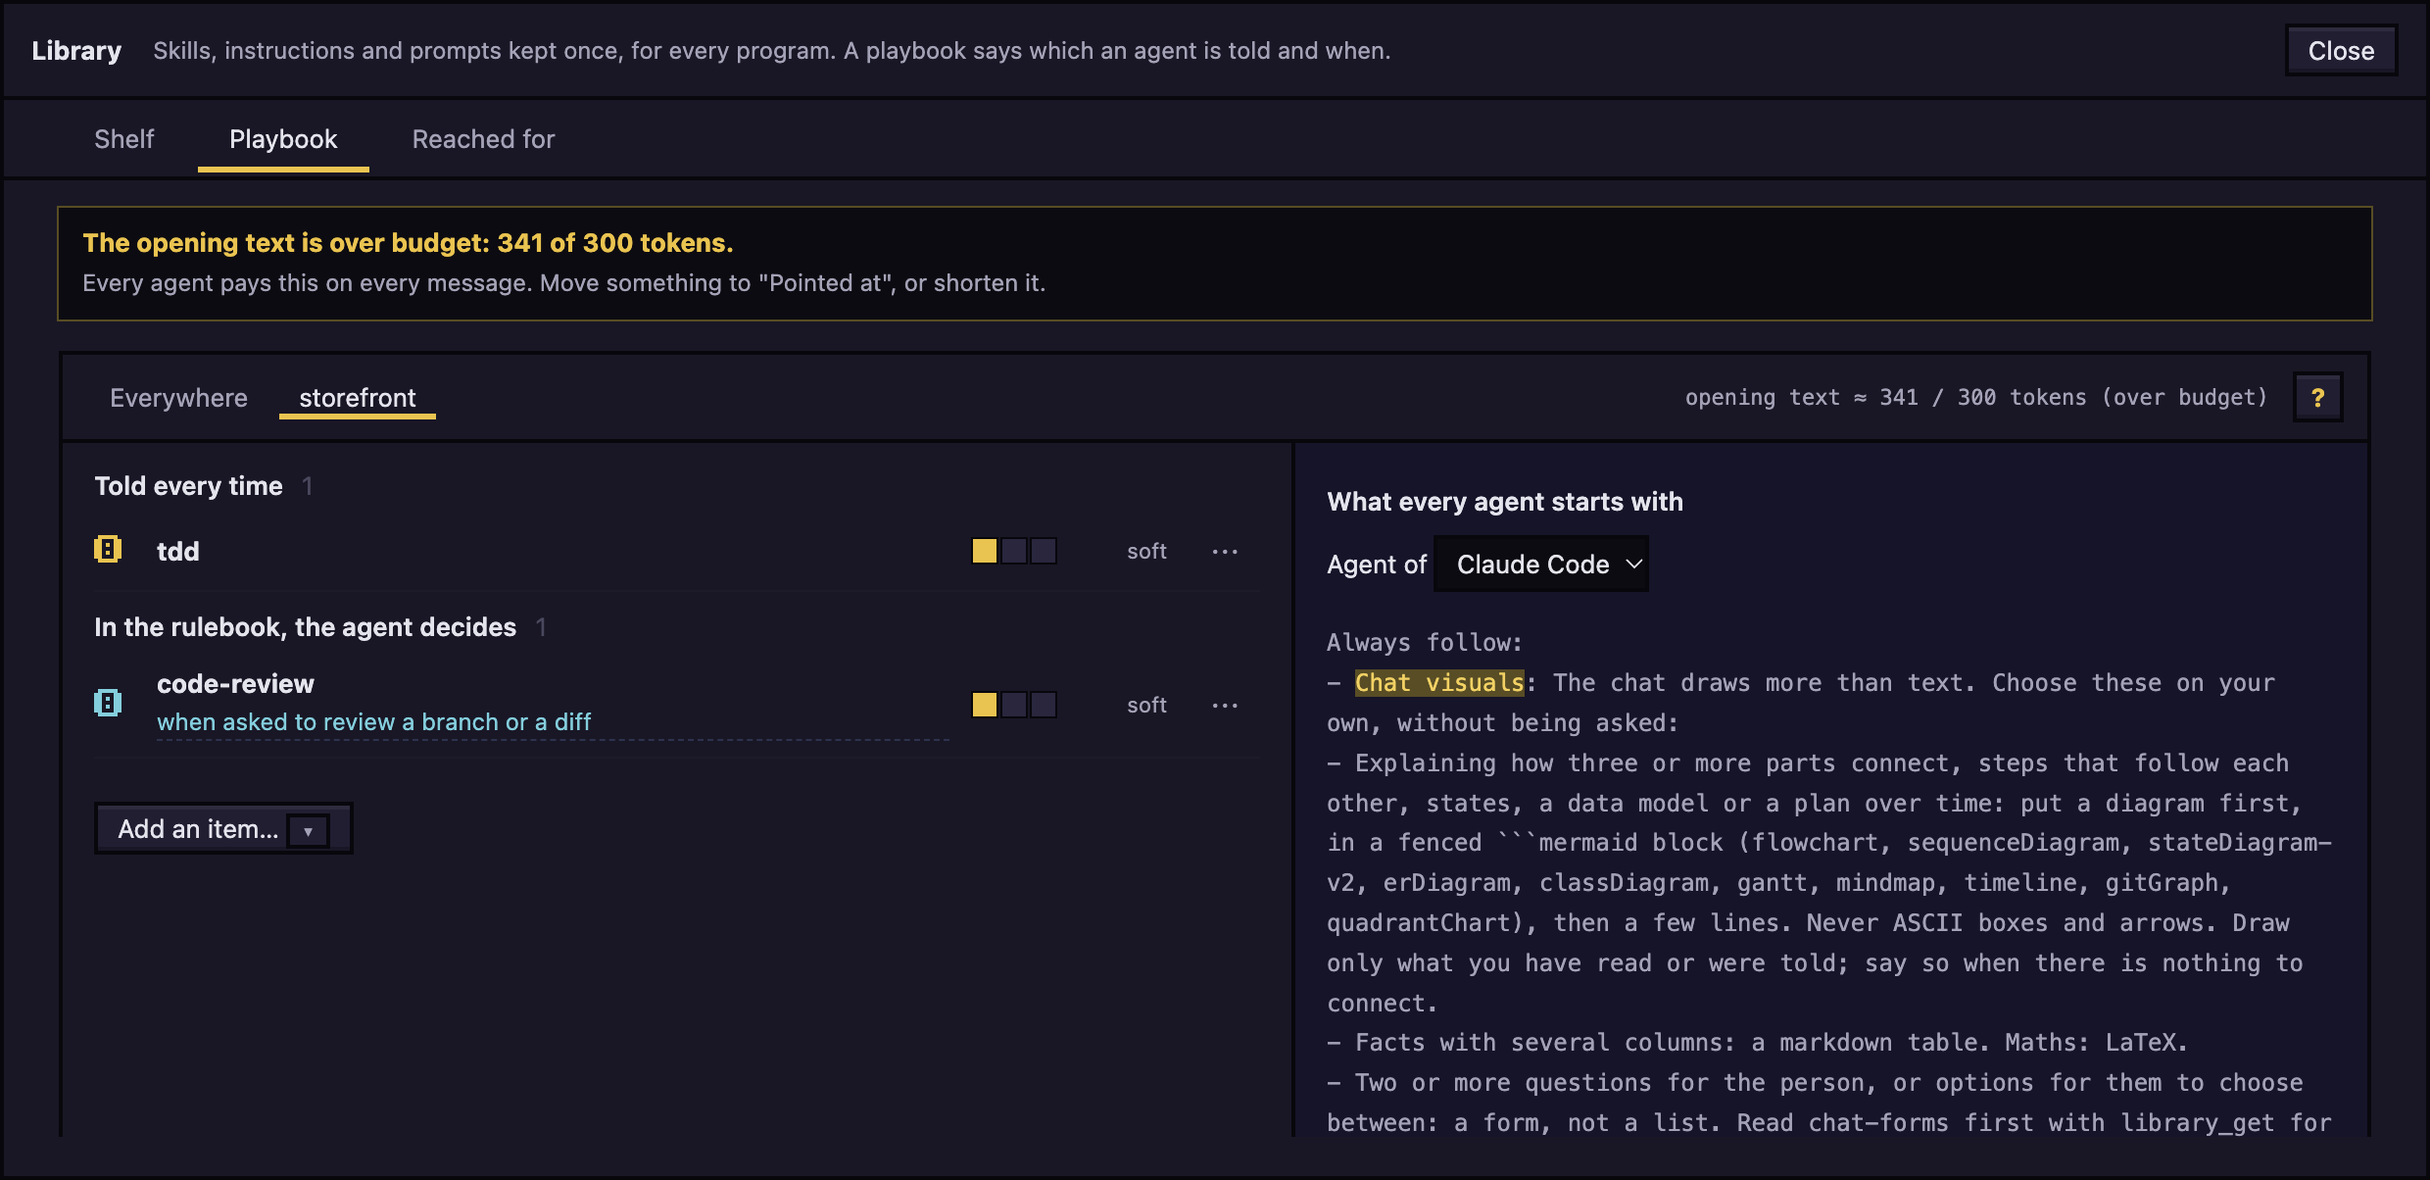
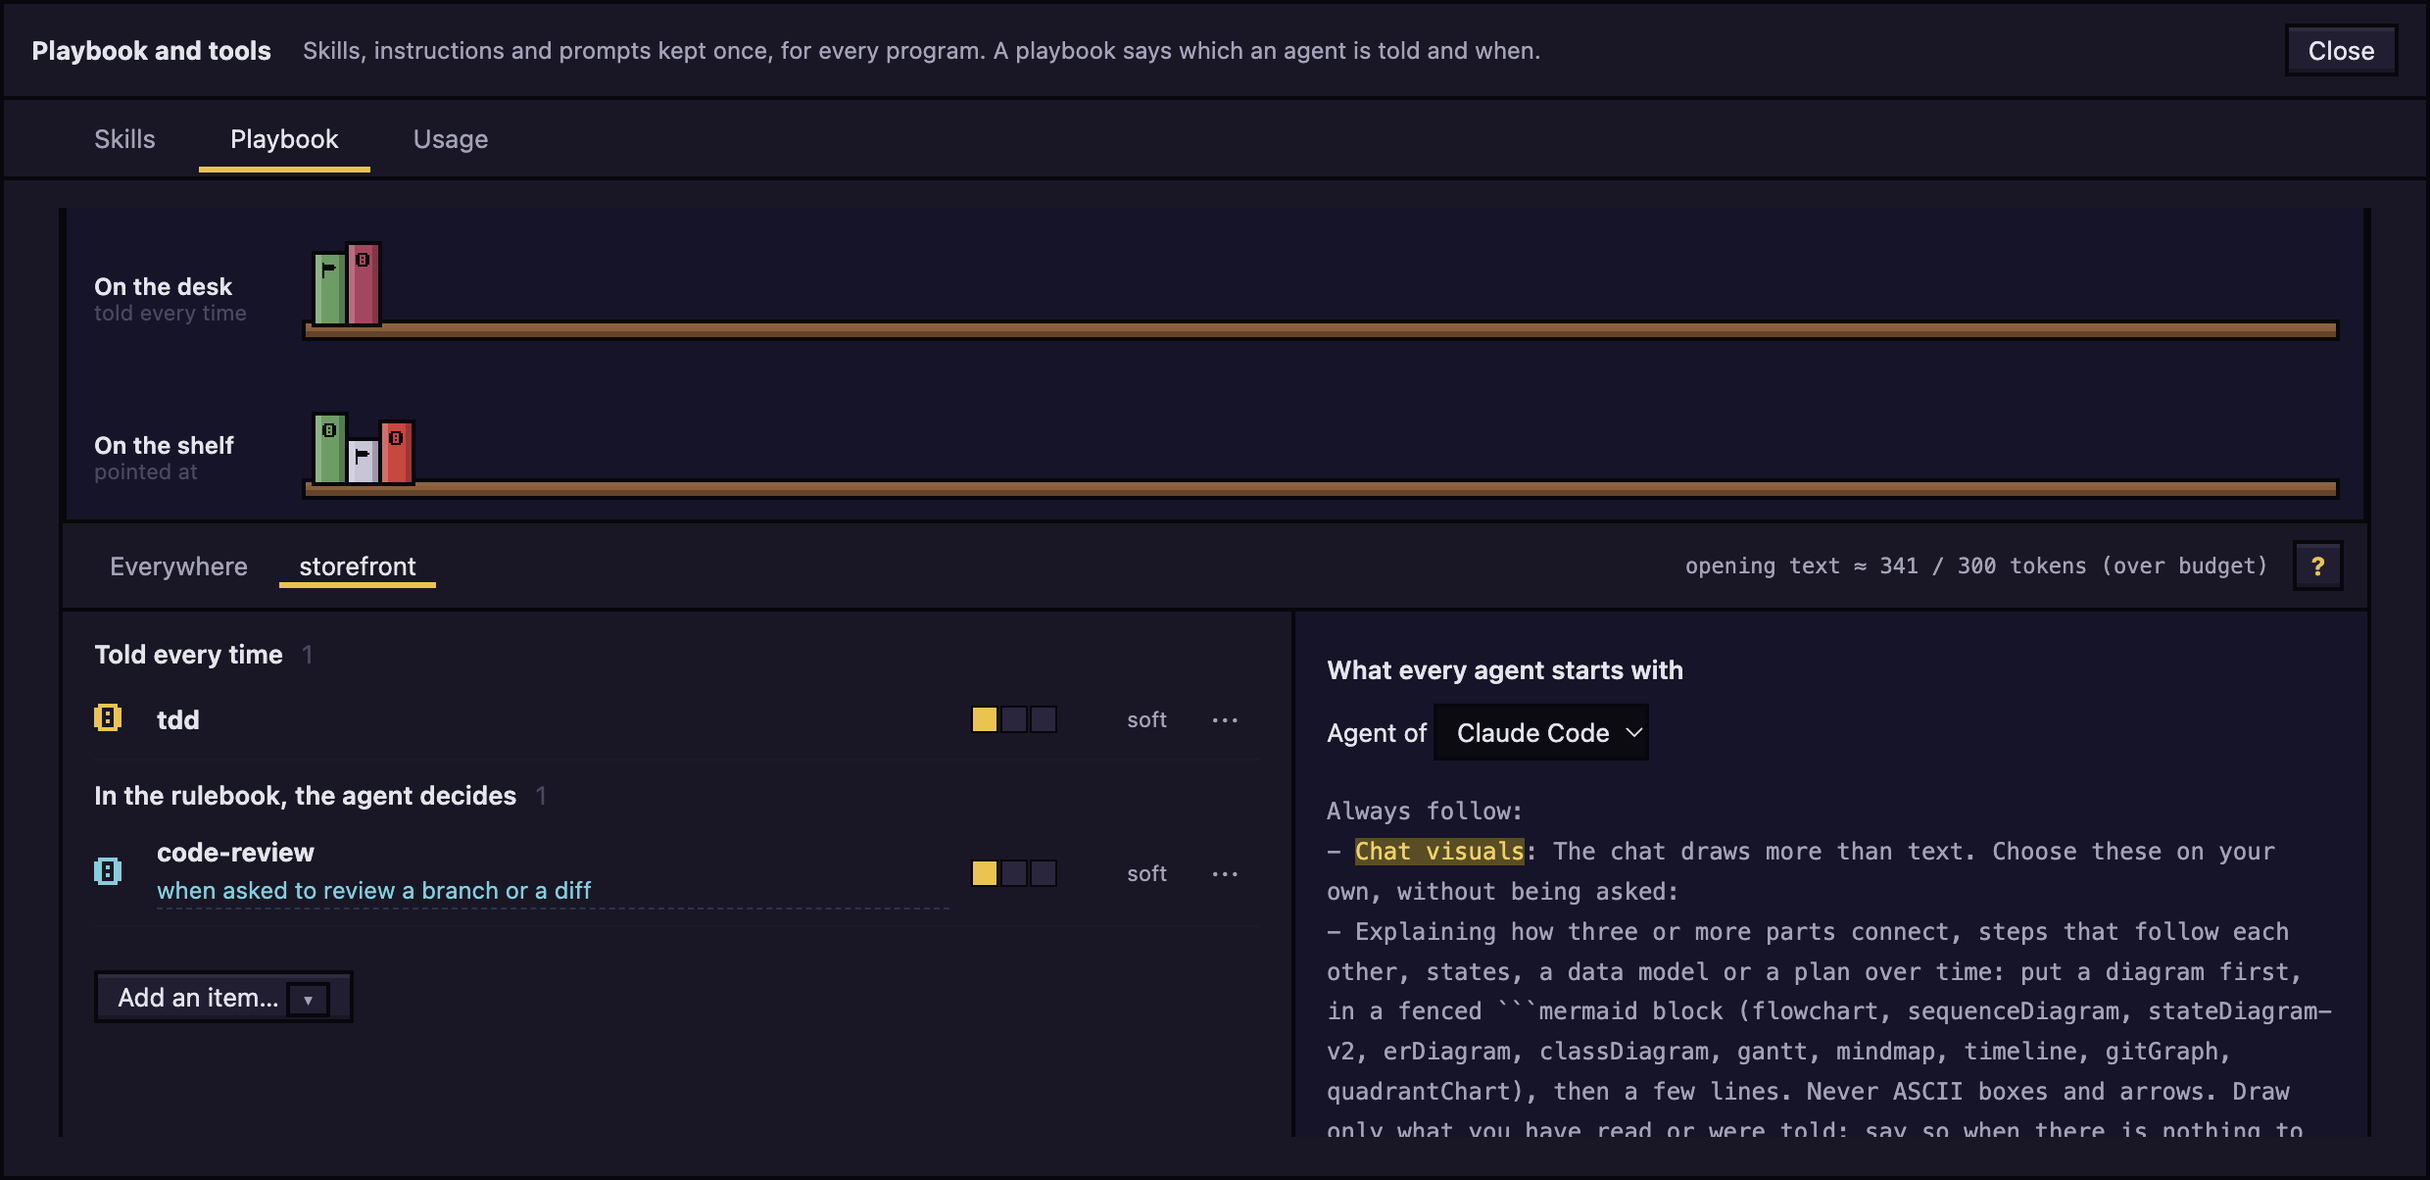
feat(library): shelf books open their item, arrow keys move between an item's tabs, and file badge colours are named

diff --git a/src/renderer/styles.css b/src/renderer/styles.css
@@ -37,6 +37,11 @@
   --thumb: #3a4268; /* a scrollbar thumb */
   --frame: #2a2840; /* the bezel of a device preview */
   --hint: #6f6d86; /* a placeholder and a timestamp */
+  --file-md: #7cc4d8; /* a skill's file badges, by type: text, shell, python, script */
+  --file-sh: #e2c35b;
+  --file-py: #8fd18b;
+  --file-js: #f0a868;
+  --spine-shine: rgb(255 255 255 / 0.35); /* the band of light across a book's spine */
   --violet-1: #5a4a8e; /* a day with one use, under the violet of two or more */
   --violet-2: #8a6fd8;
   font-family: ui-sans-serif, system-ui, -apple-system, 'Segoe UI', sans-serif;
@@ -2637,6 +2642,7 @@ aside:not(.drawer) { flex: none; }
 .lip-more span { background: var(--panel-2); box-shadow: 0 0 0 1px var(--line); padding: 1px 10px; }
 .lip-foot { padding: 5px 12px; border-top: 1px solid var(--line); background: var(--panel-2); font-size: 11px; color: var(--dim); flex: none; }
 .lip-panel { padding: 14px 16px; overflow: auto; flex: 1; min-height: 0; }
+.lip-tp { display: flex; flex-direction: column; flex: 1; min-height: 0; }
 .lip-files { margin: 0; padding: 0; list-style: none; font: 12px/1.9 Menlo, Consolas, monospace; }
 .lip-facts { margin: 0; display: flex; flex-direction: column; gap: 10px; }
 .lip-facts div { display: grid; grid-template-columns: 70px minmax(0, 1fr); gap: 10px; }
@@ -4739,7 +4745,7 @@ main.term-side .stage-wrap.off { z-index: auto; }
 .skl-row:hover:not(:disabled) { background: var(--panel-2); }
 .skl-row.sel { background: var(--selected); box-shadow: inset 0 0 0 2px var(--accent-dim); }
 .skl-spine { width: 14px; height: 34px; border: 2px solid var(--ink); position: relative; display: grid; place-items: end center; padding-bottom: 2px; color: var(--ink); }
-.skl-spine::before { content: ''; position: absolute; left: 1px; right: 1px; top: 5px; height: 3px; background: rgb(255 255 255 / 0.35); }
+.skl-spine::before { content: ''; position: absolute; left: 1px; right: 1px; top: 5px; height: 3px; background: var(--spine-shine); }
 .skl-main { min-width: 0; display: flex; flex-direction: column; gap: 4px; }
 .skl-main > b { font-size: 13px; font-weight: 600; overflow: hidden; text-overflow: ellipsis; white-space: nowrap; }
 .skl-meta { display: flex; align-items: center; gap: 8px; min-width: 0; }
@@ -4803,7 +4809,8 @@ main.term-side .stage-wrap.off { z-index: auto; }
 .skw-sock.copy .skw-jack i { background: var(--accent); }
 .skw-t { min-width: 0; display: flex; flex-direction: column; gap: 2px; }
 .skw-t b { font-size: 12.5px; }
-.skw-t small { color: var(--muted); font-size: 11px; overflow: hidden; text-overflow: ellipsis; white-space: nowrap; }
+/* Up to two lines, so a reason is read whole; the full path is on hover. */
+.skw-t small { color: var(--muted); font-size: 11px; overflow: hidden; display: -webkit-box; -webkit-line-clamp: 2; -webkit-box-orient: vertical; overflow-wrap: anywhere; }
 .skw-st { font: 700 10px Menlo, Consolas, monospace; letter-spacing: .08em; text-transform: uppercase; color: var(--muted); }
 .skw-sock.on .skw-st { color: var(--ok-text); } .skw-sock.copy .skw-st { color: var(--accent); } .skw-sock.none .skw-st { color: var(--hint); }
 .skw-note { margin: 4px 0 0; font-size: 11.5px; }
@@ -4847,7 +4854,7 @@ main.term-side .stage-wrap.off { z-index: auto; }
 .lif-list li { display: flex; align-items: center; gap: 10px; padding: 5px 6px; border-bottom: 1px solid var(--line-soft); }
 .lif-list li:hover { background: var(--panel-3); }
 .lif-ic { flex: none; width: 26px; height: 16px; display: grid; place-items: center; font: 700 9px Menlo, Consolas, monospace; color: var(--ink); background: var(--violet); }
-.lif-md { background: #7cc4d8; } .lif-sh { background: #e2c35b; } .lif-py { background: #8fd18b; } .lif-js, .lif-ts, .lif-mjs { background: #f0a868; }
+.lif-md { background: var(--file-md); } .lif-sh { background: var(--file-sh); } .lif-py { background: var(--file-py); } .lif-js, .lif-ts, .lif-mjs { background: var(--file-js); }
 .lif-n { flex: 1; min-width: 0; overflow: hidden; text-overflow: ellipsis; white-space: nowrap; font: 12px Menlo, Consolas, monospace; }
 .lif-list small { flex: none; color: var(--dim); font: 11px Menlo, Consolas, monospace; }
 .lif-list button, .lif-kept button { flex: none; padding: 2px 10px; font-size: 12px; }

diff --git a/src/renderer/panel/LibraryItemPane.tsx b/src/renderer/panel/LibraryItemPane.tsx
@@ -31,6 +31,18 @@ export function LibraryItemPane({ item, usage, where, stats, colour, onEdit, onR
     return () => ro?.disconnect()
   }, [tab, item.id, item.body])
   const TABS: [Tab, string][] = [...(where ? ([['where', 'Where it works']] as [Tab, string][]) : []), ['text', 'What an agent reads'], ['files', `Files${item.files.length ? ` (${item.files.length})` : ''}`], ['used', 'Used by']]
+  const tid = (id: Tab) => `lip-tab-${id}`
+  const pid = (id: Tab) => `lip-panel-${id}`
+  // The tabs as one stop in the Tab order: the arrow keys, Home and End move between them, and the tab moved to is picked.
+  const keys = (e: React.KeyboardEvent) => {
+    const at = TABS.findIndex(([id]) => id === tab)
+    const to = e.key === 'ArrowRight' ? (at + 1) % TABS.length : e.key === 'ArrowLeft' ? (at - 1 + TABS.length) % TABS.length : e.key === 'Home' ? 0 : e.key === 'End' ? TABS.length - 1 : -1
+    if (to < 0) return
+    e.preventDefault()
+    const id = TABS[to]![0]
+    setTab(id)
+    e.currentTarget.querySelectorAll<HTMLButtonElement>('[role="tab"]')[to]?.focus()
+  }
   return (
     <div className="lip" role="group" aria-label={`${item.name} in detail`}>
       <div className="lip-top">
@@ -38,12 +50,12 @@ export function LibraryItemPane({ item, usage, where, stats, colour, onEdit, onR
         <p className="lip-desc">{item.description}</p>
         {stats}
       </div>
-      <div className="lip-tabs" role="tablist" aria-label={`About ${item.name}`}>
-        {TABS.map(([id, label]) => <button key={id} role="tab" aria-selected={tab === id} className={tab === id ? 'on' : ''} onClick={() => setTab(id)}>{label}</button>)}
+      <div className="lip-tabs" role="tablist" aria-label={`About ${item.name}`} onKeyDown={keys}>
+        {TABS.map(([id, label]) => <button key={id} id={tid(id)} role="tab" aria-selected={tab === id} aria-controls={pid(id)} tabIndex={tab === id ? 0 : -1} className={tab === id ? 'on' : ''} onClick={() => setTab(id)}>{label}</button>)}
       </div>
-      {tab === 'where' && where}
+      {tab === 'where' && <div className="lip-tp" role="tabpanel" id={pid('where')} aria-labelledby={tid('where')}>{where}</div>}
       {tab === 'text' && (
-        <div className="lip-view" role="tabpanel" aria-label="What an agent reads">
+        <div className="lip-view" role="tabpanel" id={pid('text')} aria-labelledby={tid('text')}>
           <div className="lip-bar"><PixelIcon name="book" scale={2} /><b>{file}</b><span>{lines} {lines === 1 ? 'line' : 'lines'} · about {item.tokens.body} tokens</span><span className="lib-sp" /><span>the item's own words</span></div>
           <div className="lip-scroll lib-scrollbar" ref={scroller} onScroll={check} tabIndex={0} aria-label="The item's text, scrolls">
             <Markdown text={item.body} />
@@ -53,7 +65,7 @@ export function LibraryItemPane({ item, usage, where, stats, colour, onEdit, onR
         </div>
       )}
       {tab === 'files' && (
-        <div className="lip-panel" role="tabpanel" aria-label="Files">
+        <div className="lip-panel" role="tabpanel" id={pid('files')} aria-labelledby={tid('files')}>
           {item.files.length ? (() => {
             const sizes = item.fileTokens ?? {}
             const total = item.files.reduce((n, f) => n + (sizes[f] ?? 0), 0)
@@ -88,7 +100,7 @@ export function LibraryItemPane({ item, usage, where, stats, colour, onEdit, onR
         </div>
       )}
       {tab === 'used' && (
-        <div className="lip-panel" role="tabpanel" aria-label="Used by">
+        <div className="lip-panel" role="tabpanel" id={pid('used')} aria-labelledby={tid('used')}>
           <dl className="lip-facts">
             <div><dt>From</dt><dd>{item.source}</dd></div>
             <div><dt>Costs</dt><dd>about {item.tokens.body} tokens to read, {item.tokens.description} to list</dd></div>

diff --git a/src/renderer/panel/LibraryItemPane.test.tsx b/src/renderer/panel/LibraryItemPane.test.tsx
@@ -1,0 +1,42 @@
+// @vitest-environment jsdom
+import { act } from 'react'
+import { createRoot } from 'react-dom/client'
+import { afterEach, describe, expect, it, vi } from 'vitest'
+import type { LibraryItem } from '../../shared/library'
+
+vi.mock('../chat/markdown', () => ({ Markdown: ({ text }: { text: string }) => <div>{text}</div> }))
+
+import { LibraryItemPane } from './LibraryItemPane'
+
+;(globalThis as { IS_REACT_ACT_ENVIRONMENT?: boolean }).IS_REACT_ACT_ENVIRONMENT = true
+
+const item: LibraryItem = { id: 'pdf', kind: 'skill', name: 'pdf', description: 'Work with PDFs.', body: 'Use it.', source: 'new', files: ['split.sh'], dir: '/lib/skills/pdf', tokens: { description: 4, body: 2 } }
+
+describe('the tabs of an item', () => {
+  afterEach(() => void (document.body.innerHTML = ''))
+
+  it('move with the arrow keys, Home and End, and each names the panel it shows', async () => {
+    const host = document.body.appendChild(document.createElement('div'))
+    await act(async () => createRoot(host).render(<LibraryItemPane item={item} where={<div>where</div>} onEdit={() => undefined} onRemove={() => undefined} />))
+    const tabs = () => [...host.querySelectorAll<HTMLButtonElement>('[role="tab"]')]
+    const selected = () => tabs().find((t) => t.getAttribute('aria-selected') === 'true')!.textContent
+    const key = (k: string) => act(async () => void document.activeElement!.dispatchEvent(new KeyboardEvent('keydown', { key: k, bubbles: true })))
+    tabs()[0]!.focus()
+    expect(selected()).toBe('Where it works')
+    await key('ArrowRight')
+    expect(selected()).toBe('What an agent reads')
+    expect(document.activeElement?.textContent).toBe('What an agent reads')
+    await key('End')
+    expect(selected()).toBe('Used by')
+    await key('ArrowRight')
+    expect(selected()).toBe('Where it works')
+    await key('ArrowLeft')
+    expect(selected()).toBe('Used by')
+    await key('Home')
+    expect(selected()).toBe('Where it works')
+    const panel = host.querySelector(`#${tabs()[0]!.getAttribute('aria-controls')}`)
+    expect(panel?.getAttribute('role')).toBe('tabpanel')
+    // Only the picked tab is in the Tab order.
+    expect(tabs().map((t) => t.tabIndex)).toEqual([0, -1, -1, -1])
+  })
+})

diff --git a/src/renderer/panel/LibraryPane.tsx b/src/renderer/panel/LibraryPane.tsx
@@ -401,9 +401,9 @@ export function LibraryPane({ folder, providers }: { folder: string; providers: 
                     {row.map((i) => {
                       const look = spineLook(i, true)
                       return (
-                        <span key={i.id} className="spine" data-name={i.name} aria-label={i.name} style={{ height: look.height, background: look.colour }}>
+                        <button key={i.id} className="spine" data-name={i.name} aria-label={`Open ${i.name}`} style={{ height: look.height, background: look.colour }} onClick={() => (setTab('skills'), setFind(''), setDraft(null), setOpen(i.id))}>
                           <PixelIcon name={KIND_ICON[i.kind]} scale={1} />
-                        </span>
+                        </button>
                       )
                     })}
                   </div>

diff --git a/docs/guide/library-and-playbook.md b/docs/guide/library-and-playbook.md
@@ -31,17 +31,17 @@ The list groups skills as **Used this month**, **Gathering dust** (on for Claude
 Open a skill: its **Where it works** tab shows the library copy, a socket for each place and a cable to each place the skill reaches. Click a socket to switch it. One copy lives in the library; nothing is copied.
 
 - **Claude in the app**: on by default. Every Claude agent gets the skill when it starts, on every account the app has set up, and nothing is installed in an account's own folder. Switch it off to keep the skill in the library only. A skill a playbook rule names still reaches the agent, and a rule set to **Off** keeps one away.
-- **Claude (outside the app)**, **Antigravity CLI**, **Antigravity app** and **This project**: click one marked **plug in** to link the skill into that program's skills folder; it then says **linked**. The link points at the library copy, so an edit shows everywhere. A place that is not installed here says **not here** and is greyed out. If a folder of the same name is already there, the socket says **a copy** and is left as it is.
+- **Claude (outside the app)**, **Antigravity CLI**, **Antigravity app** and **This project**: click one marked **plug in** to link the skill into that program's skills folder; it then says **linked**. The link points at the library copy, so an edit shows everywhere. A place that is not installed here says **not here** and is greyed out. If a folder of the same name is already there, the socket says **a copy** and is left as it is. On **Claude (outside the app)** that copy is the one Claude uses, so the app does not add the library's as well.
 
-A skill that is linked into **Claude (outside the app)** is not added again when an agent starts, so Claude does not list it twice.
+A skill the agent's own Claude skills folder already has (linked or a copy) is not added again when it starts, so Claude does not list it twice. An account with a skills folder of its own still gets every skill.
 
 Agents already running keep the skills they started with until they restart.
 
-<img src="../images/library.png" alt="The Skills tab with the item commit-style open: its text, size in tokens, and the tabs What an agent reads, Files and Used by" width="720">
+<img src="../images/library.png" alt="The Skills tab: skills grouped as gathering dust, each with its spine, its 30 days and its cost; commit-style open on Where it works, with the library copy, a cable to each place and a socket for each" width="720">
 
 ## Choose what agents are told
 
-On the **Playbook** tab, the bookshelf at the top shows what is **On the desk** (told every time) and **On the shelf** (pointed at), and a notice appears there when the opening text is over budget. Below it:
+On the **Playbook** tab, the bookshelf at the top shows what is **On the desk** (told every time) and **On the shelf** (pointed at); click a book to open the item on the **Skills** tab. A notice appears there when the opening text is over budget. Below it:
 
 1. Pick a scope: **Everywhere**, or the button named after the open project's folder. The project's rule wins over **Everywhere** for the same item.
 2. Click **Add an item…** and click an item. It is added as **Pointed at**, soft.
@@ -86,7 +86,7 @@ An agent can read only items in its playbook. Claude Code also gets the playbook
 
 ## Usage
 
-The top of the **Usage** tab shows the library's skills over the last 30 days, with the start-of-session cost meter. **Most used** ranks them with a bar each, the faces of the agents that used them, the accounts and when each was last used. A use is Claude loading the skill, or an agent reading it. **Gathering dust** lists the rest with what each still costs at the start of every session: click **Turn off for Claude** to stop paying for it, **Remove** to delete it from the library, or **Clear the dust** to turn them all off for Claude. **Who reached for what** shows each agent with the skills it used.
+The top of the **Usage** tab shows the library's skills over the last 30 days, with the start-of-session cost meter. **Most used** ranks them with a bar each, the faces of the agents that used them, the accounts and when each was last used. A use is Claude loading the skill, or an agent reading it, counted once per turn however many of its files it reads then. Only use by agents in the app is counted. **Gathering dust** lists the rest with what each still costs at the start of every session: click **Turn off for Claude** to stop paying for it, **Remove** to delete it from the library, or **Clear the dust** to turn them all off for Claude. **Who reached for what** shows each agent with the skills it used.
 
 Below that, the tab judges each item on the prompts that looked related to it, not on every time the rulebook reminder named it (an agent is told to say nothing about a rule that does not apply, so most reminders can only end in silence). Under each name is how often it was reminded; the bars are **related** prompts, how often the item was **read** then (any time later in that session), and **said no**. The verdict is one of: most said no (the "when" is too wide: make it narrower), passed over in silence when it applies (make it firm or a step), fair, working, or too few to judge. Only whether a prompt looked related is kept, never the prompt. Use **Program** to switch between **Both programs**, **Claude** and **agy**. Click a row to see what agents said when they passed it over.
 
